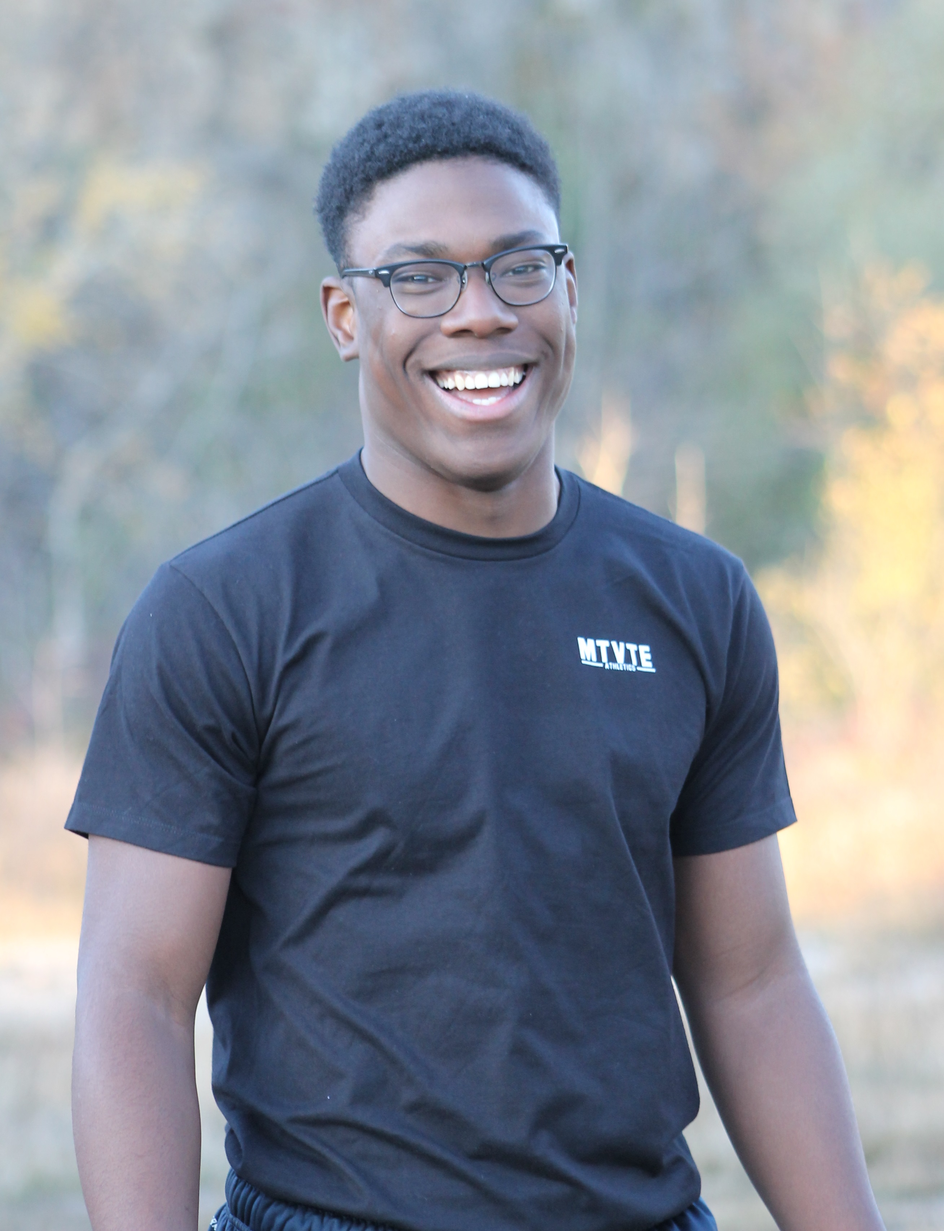
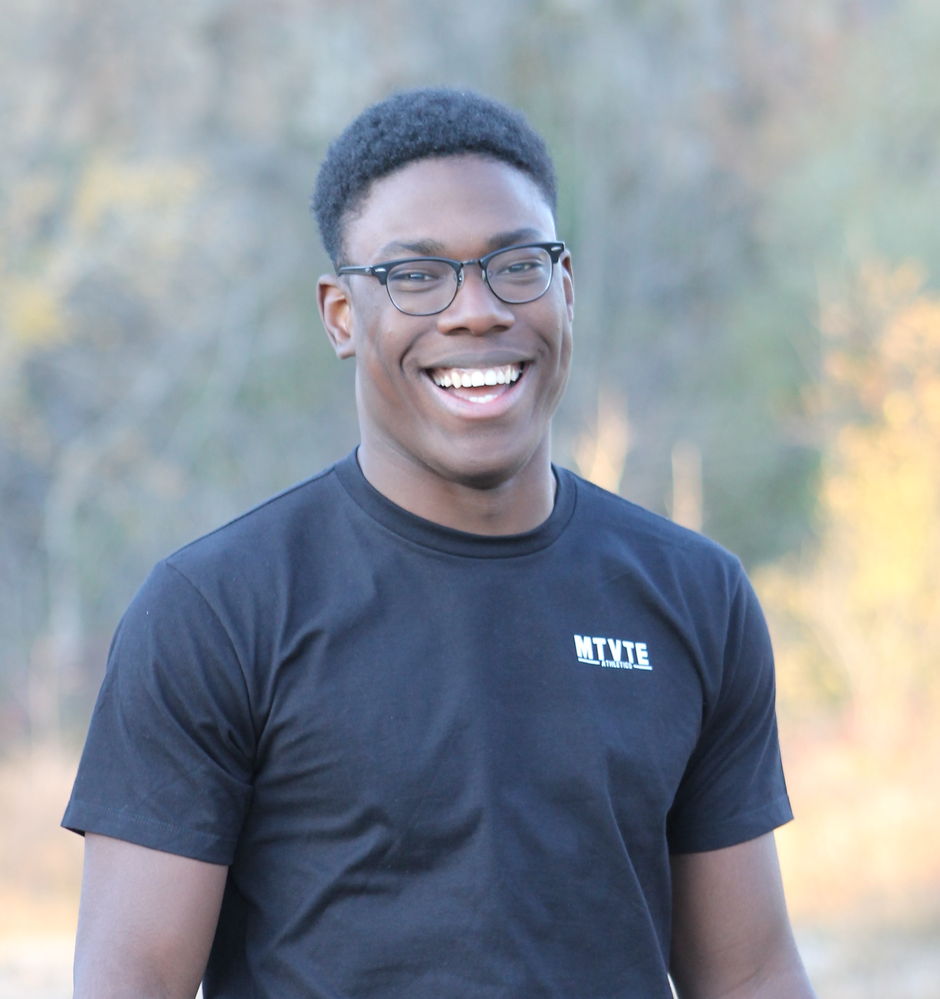
updated team section

diff --git a/home_alternate/index.html b/home_alternate/index.html
@@ -67,7 +67,7 @@
       margin-right: 13%;
     }
     .team-img {
-      max-height: 400px;
+      height: 360px;
     }
     p.subheading {
       color: gray;
@@ -80,6 +80,9 @@
     a {
       color: #f54ea2;
       text-decoration: none;
+    }
+    .team-card {
+      height: 700px;
     }
   </style>
 </head>
@@ -282,7 +285,7 @@
     </div>
     <div class="row probootstrap-gutter1">
 
-      <div class="col-md-4 col-sm-12">
+      <div class="col-md-4 col-sm-12 team-card">
         <img src="img/team/tomiwa.jpg" class="img-responsive team-img">
         <div class="probootstrap-text-overlay">
           <h3>Tomiwa Ademidun</h3>
@@ -293,7 +296,7 @@
           <a href="https://linkedin.com/in/tademidun" target="_blank ">LinkedIn</a>
         </div>
       </div>
-      <div class="col-md-4 col-sm-12" style="padding-right: 5px"> <!--padding-right: 5px to allow next 3 divs all fit on same row-->
+      <div class="col-md-4 col-sm-12 team-card" style="padding-right: 5px"> <!--padding-right: 5px to allow next 3 divs all fit on same row-->
         <img src="img/team/lea.jpg" alt="Lea Handal Team Image" class="img-responsive team-img">
         <div class="probootstrap-text-overlay">
           <h3>Lea Handal</h3>
@@ -302,10 +305,10 @@
             For fun, she likes taking pcitures with Canada Goose.
           </p><br>
           <!--<a href="https://atila.ca/profile/orekitan" target="_blank ">Profile</a> |-->
-          <!--<a href="https://linkedin.com/in/rahimshamsy" target="_blank ">LinkedIn</a>-->
+          <a href="https://linkedin.com/in/lea-handal" target="_blank ">LinkedIn</a>
         </div>
       </div>
-      <div class="col-md-4 col-sm-12">
+      <div class="col-md-4 col-sm-12 team-card">
         <img src="img/team/valentine.jpg" alt="Valentine Kuznetcov Team Image" class="img-responsive team-img">
         <div class="probootstrap-text-overlay">
           <h3>Valentine Kuznetcov</h3>
@@ -316,7 +319,7 @@
           <a href="https://linkedin.com/in/valentin-kuznetcov/" target="_blank ">LinkedIn</a>
         </div>
       </div>
-      <div class="col-md-4 col-sm-12" style="padding-right: 5px"> <!--padding-right: 5px to allow next 3 divs all fit on same row-->
+      <div class="col-md-4 col-sm-12 team-card" style="padding-right: 5px"> <!--padding-right: 5px to allow next 3 divs all fit on same row-->
         <img src="img/team/rahim.jpg" alt="Rahim Shamsy Team Image" class="img-responsive team-img">
         <div class="probootstrap-text-overlay">
           <h3>Rahim Shamsy</h3>
@@ -328,7 +331,7 @@
           <a href="https://linkedin.com/in/rahimshamsy" target="_blank ">LinkedIn</a>
         </div>
       </div>
-      <div class="col-md-4 col-sm-12" style="padding-right: 5px"> <!--padding-right: 5px to allow next 3 divs all fit on same row-->
+      <div class="col-md-4 col-sm-12 team-card" style="padding-right: 5px"> <!--padding-right: 5px to allow next 3 divs all fit on same row-->
         <img src="img/team/aurorita.jpg" alt="Aurorita Mahbub Team Image" class="img-responsive team-img">
         <div class="probootstrap-text-overlay">
           <h3>Aurorita Mahbub</h3>
@@ -340,7 +343,7 @@
           <a href="https://linkedin.com/in/rahimshamsy" target="_blank ">LinkedIn</a>
         </div>
       </div>
-      <div class="col-md-4 col-sm-12">
+      <div class="col-md-4 col-sm-12 team-card">
         <img src="img/team/zion.jpg" alt="Zion Oginni Team Image" class="img-responsive team-img">
         <div class="probootstrap-text-overlay">
           <h3>Zion Oginni</h3>
